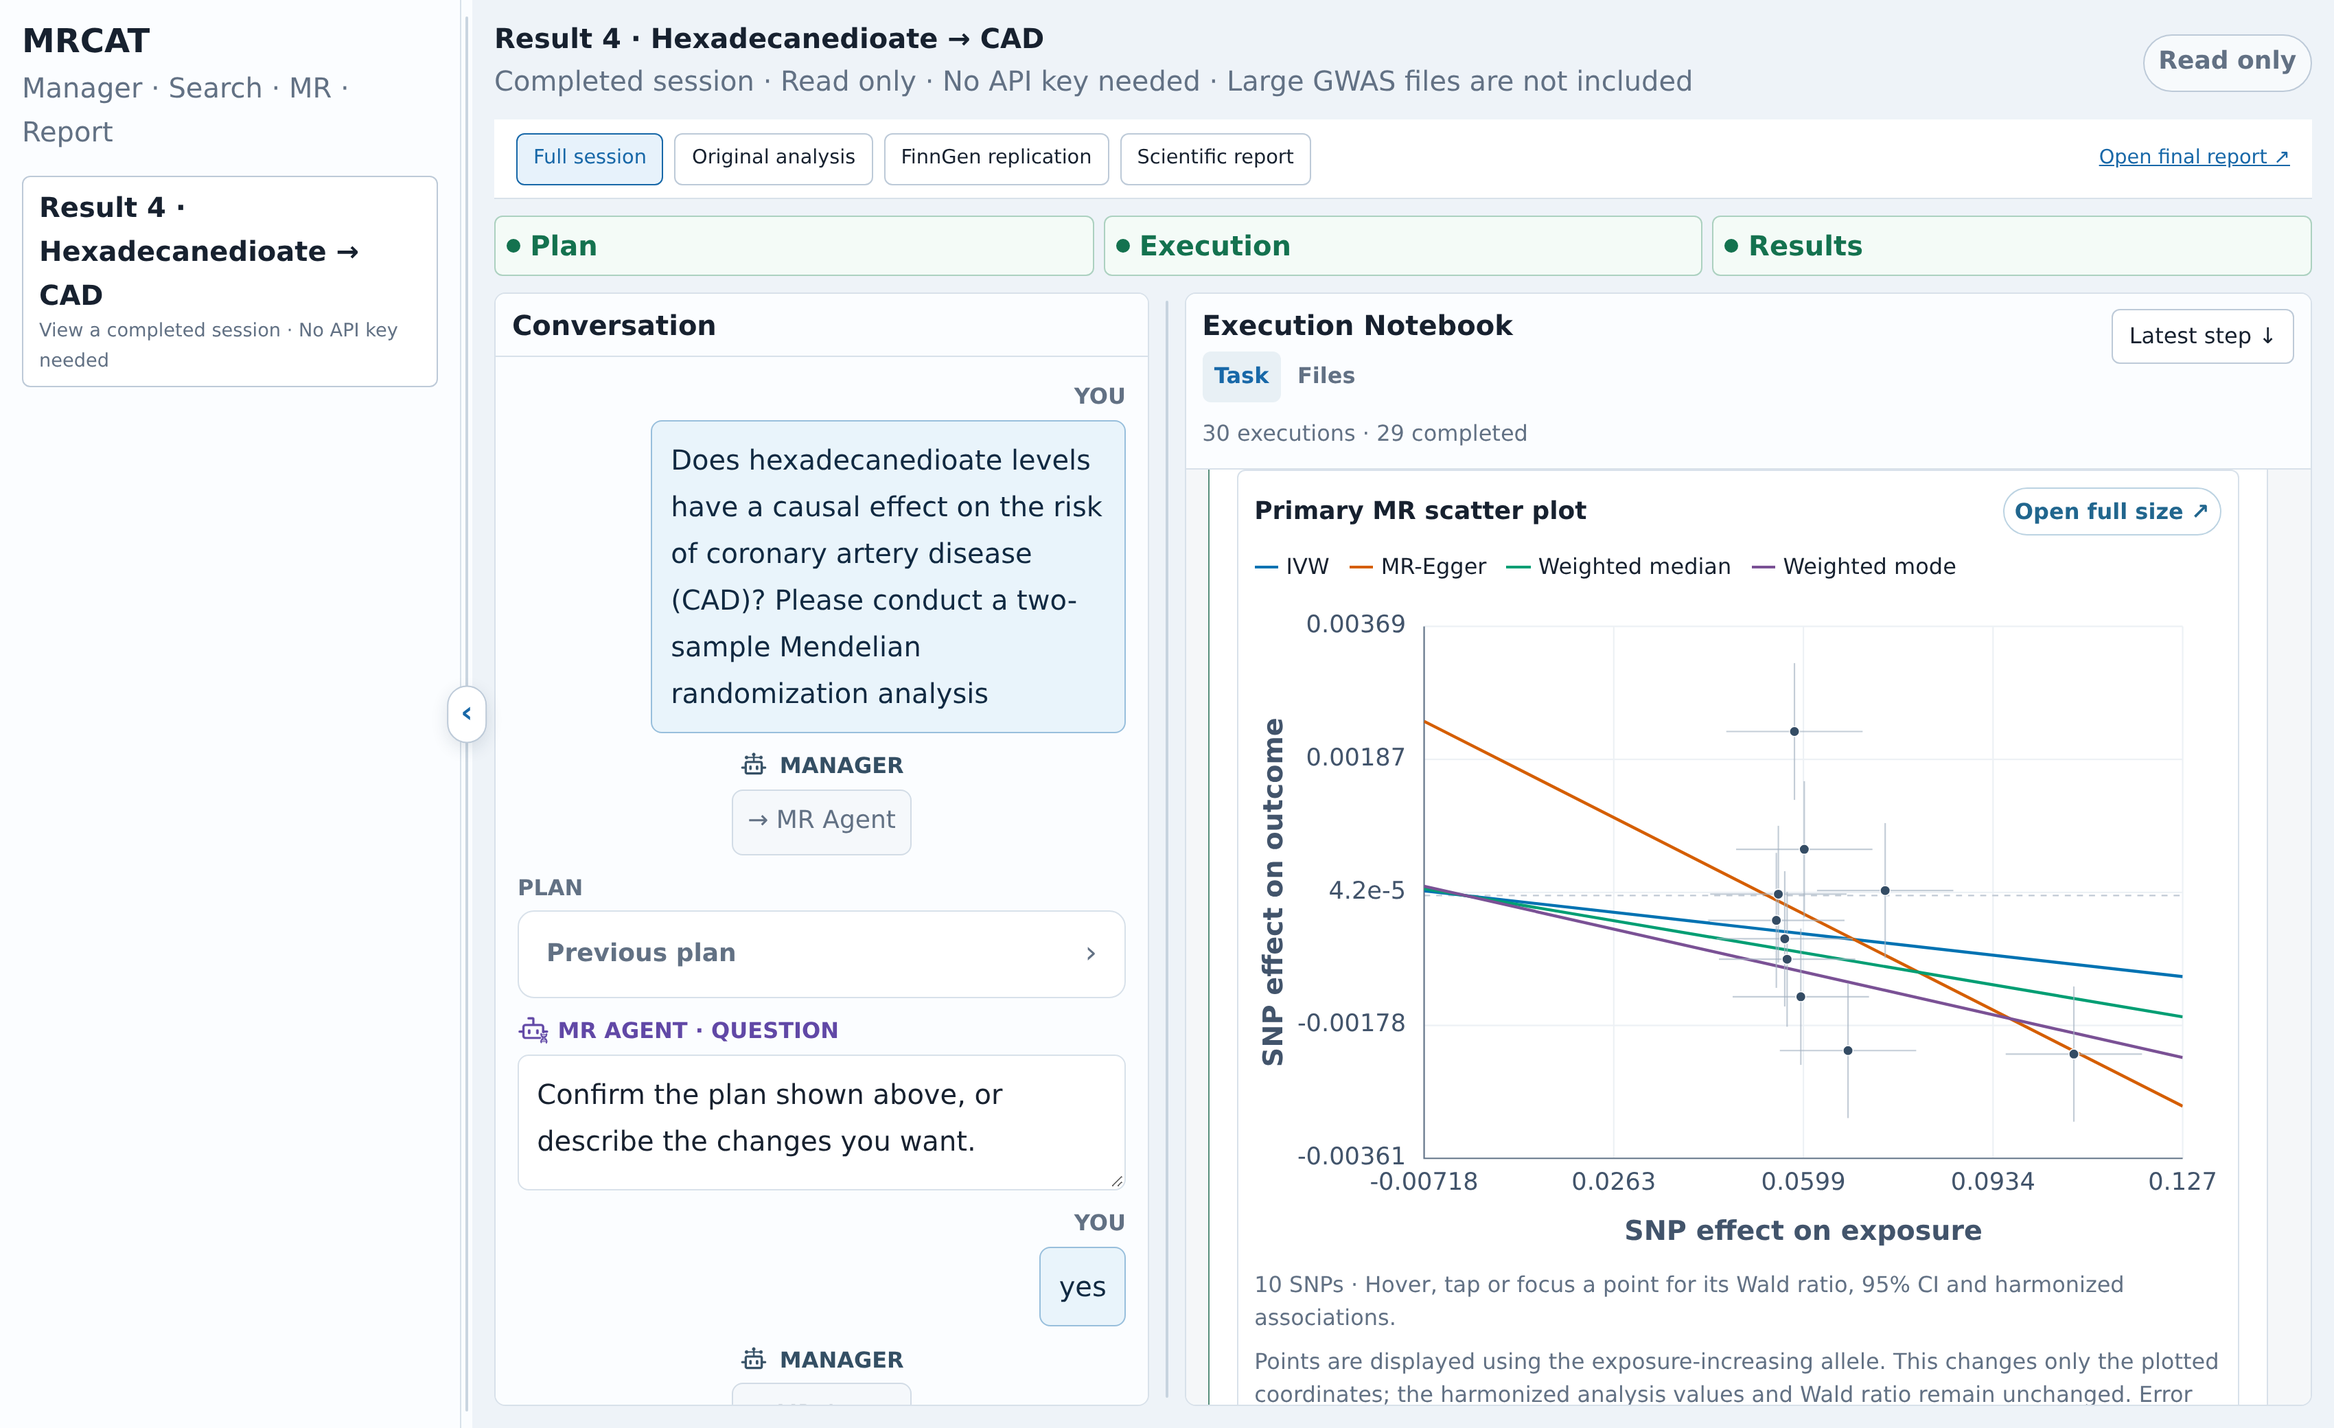
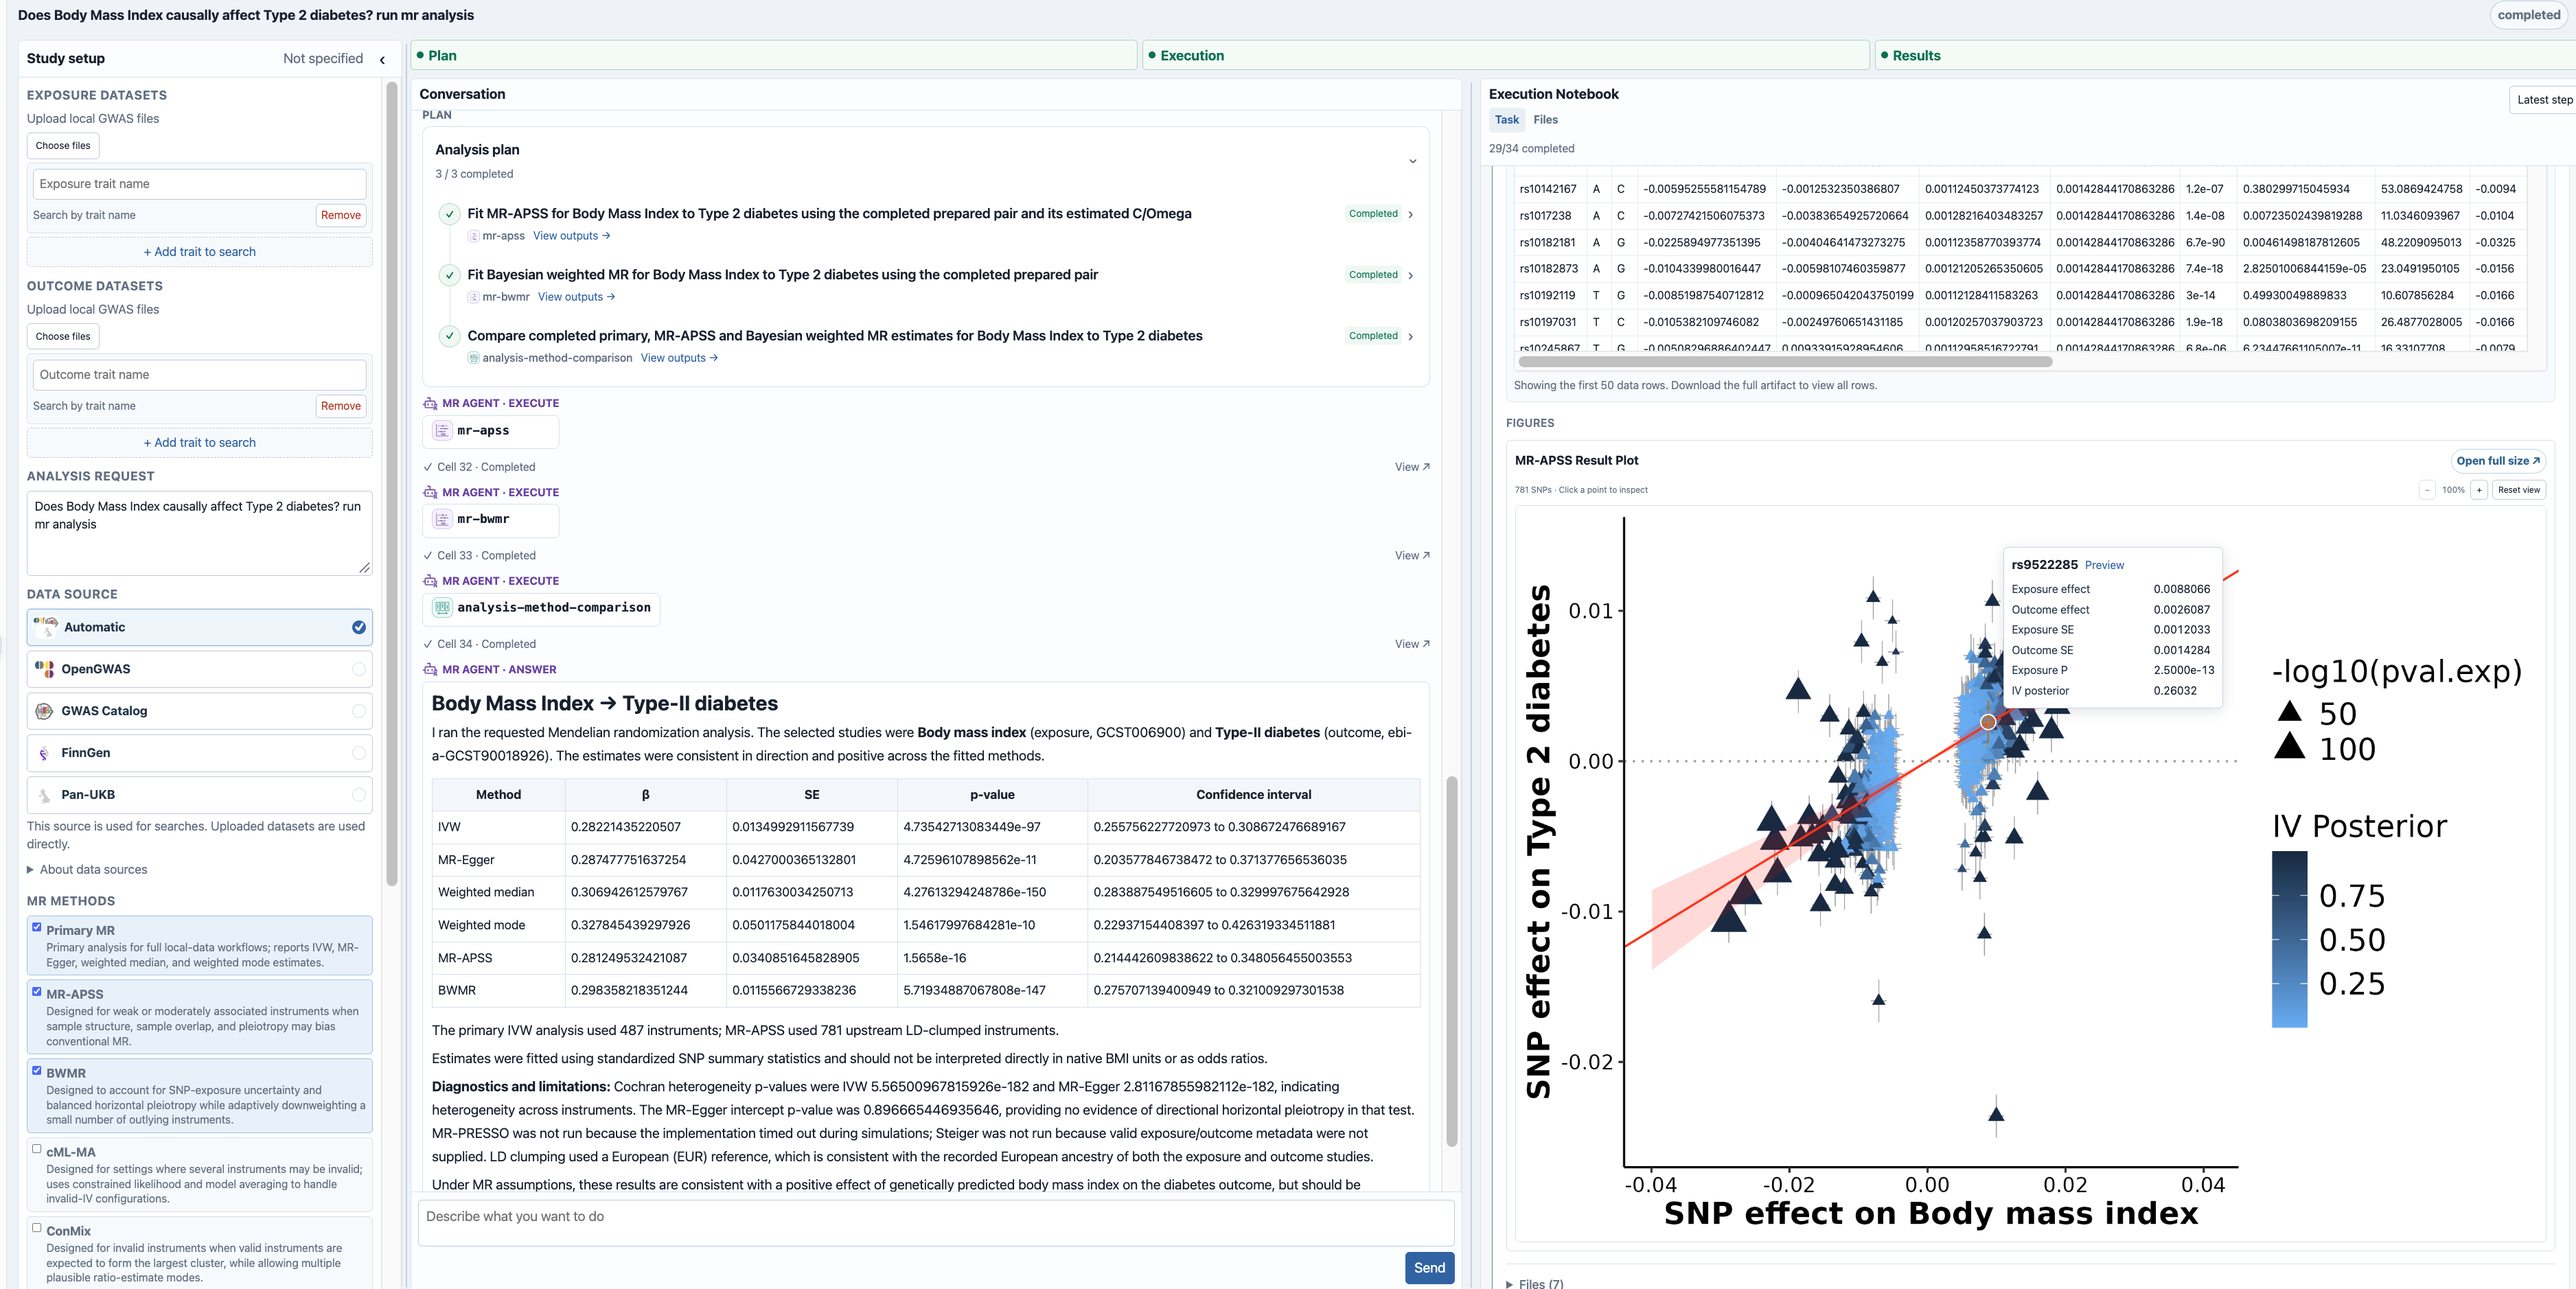
Use the BMI-T2D interface screenshot in the README
Replace the screenshot with the author-supplied original PNG and align its caption and provenance.

diff --git a/docs/development.md b/docs/development.md
@@ -124,9 +124,7 @@ This snippet does not supply example data or perform upstream preparation.
 
 ## README screenshot
 
-`docs/assets/mrcat-workspace.png` is a browser screenshot of the included,
-sanitized Result 4 recording in the frontend published with commit `87f7c82`.
-It shows a recorded analysis, not a newly executed workflow. Capture updates
-from the reviewed example only; never use private user sessions or credential
-screens. Keep the read-only status visible and do not alter scientific results
-for presentation. The original large GWAS files are not needed to view it.
+`docs/assets/mrcat-workspace.png` is the author-supplied screenshot used in the
+cover letter. It shows study setup, the analysis plan and interactive results
+for BMI and type 2 diabetes. The original PNG is copied without resizing or
+recompression. It is an interface illustration, not the bundled Result 4 recording.

diff --git a/README.md b/README.md
@@ -12,9 +12,9 @@ MRCAT searches for GWAS studies, prepares exposure and outcome data, runs MR
 analyses and diagnostics, and writes reports from the saved results. Review the
 plan, inspect code and plots, and ask follow-up questions in one workspace.
 
-[![MRCAT workspace showing a recorded analysis](docs/assets/mrcat-workspace.png)](docs/assets/mrcat-workspace.png)
+[![MRCAT workspace showing a BMI–type 2 diabetes analysis](docs/assets/mrcat-workspace.png)](docs/assets/mrcat-workspace.png)
 
-*The workspace displaying the included read-only analysis example.*
+*The MRCAT workspace showing study setup, an analysis plan and interactive results for BMI and type 2 diabetes.*
 
 ## Demo
 
